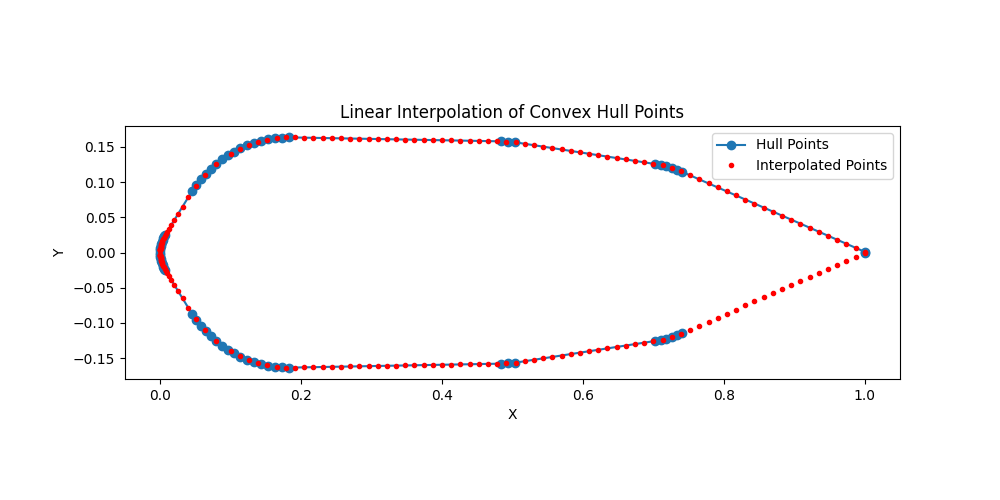
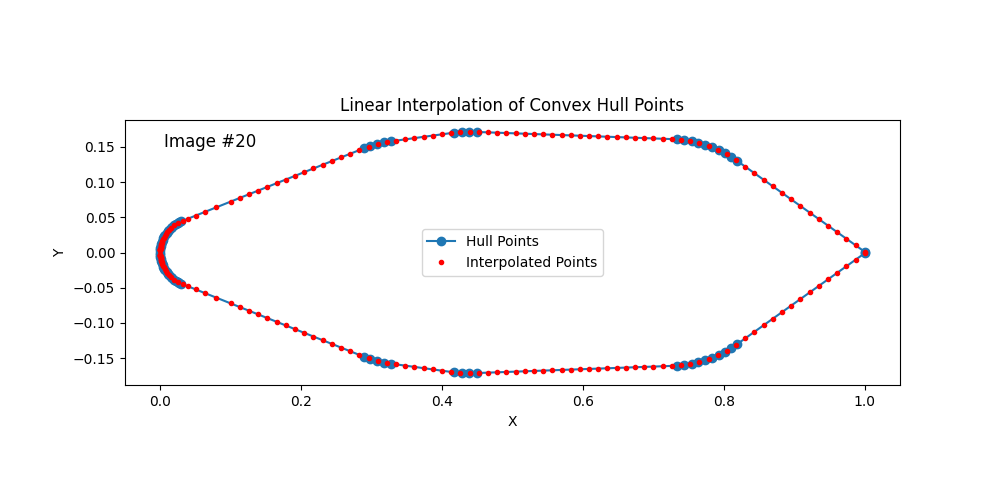
.

diff --git a/AirfoilEnv.py b/AirfoilEnv.py
@@ -3,6 +3,13 @@ from xfoil import XFoil
 from xfoil.model import Airfoil
 from scipy.spatial import ConvexHull
 import matplotlib.pyplot as plt
+from scipy.interpolate import CubicSpline
+import io
+from matplotlib.backends.backend_agg import FigureCanvasAgg as FigureCanvas
+from matplotlib.figure import Figure
+from PIL import Image
+from torchvision import transforms
+import torch
 
 class CustomAirfoilEnv:
     def __init__(self):
@@ -10,19 +17,19 @@ class CustomAirfoilEnv:
         self.xfoil.Re = 1e6
         self.xfoil.max_iter = 100  # 최대 반복 횟수
         self.circles = [((0, 0), 0.05), ((1, 0), 0.002)]
-        self.state = self.get_airfoil_points(self.circles)  # state는 점을 제공 shape=(N, 2)
-        self.xfoil.airfoil = Airfoil(self.state[:, 0], self.state[:, 1])
+        self.points, self.state = self.get_airfoil(self.circles)  # state는 점을 제공 shape=(N, 2)
+        self.xfoil.airfoil = Airfoil(self.points[:, 0], self.points[:, 1])
 
     def reset(self):
         self.circles = [((0, 0), 0.05), ((1, 0), 0.001)]
-        self.state = self.get_airfoil_points(self.circles)
-        self.xfoil.airfoil = Airfoil(self.state[:, 0], self.state[:, 1])
+        self.points, self.state = self.get_airfoil(self.circles)
+        self.xfoil.airfoil = Airfoil(self.points[:, 0], self.points[:, 1])
         return self.get_state()
 
-    def step(self, action):
+    def step(self, action, t=None):
         self.circles.append(((action[0], 0), action[1]))  # add circle
-        new_airfoil_points = self.get_airfoil_points(self.circles)
-        self.xfoil.airfoil = Airfoil(new_airfoil_points[:, 0], new_airfoil_points[:, 1])
+        points, state = self.get_airfoil(self.circles, t=t)
+        self.xfoil.airfoil = Airfoil(points[:, 0], points[:, 1])
         cl, cd, cm, cp = self.xfoil.a(5)    # angle of attack is 5 degrees
         """
         Cl : 양력 계누는 음수일 수 있다.
@@ -35,7 +42,7 @@ class CustomAirfoilEnv:
         if reward == 0 or np.isnan(reward):
             reward = -1
 
-        next_state = new_airfoil_points
+        next_state = state
         self.state = next_state
 
         return next_state, reward
@@ -67,7 +74,7 @@ class CustomAirfoilEnv:
         return all_points
 
 
-    def get_airfoil_points(self, circles, N=100, plot=False):
+    def get_airfoil(self, circles, N=100, plot=False, t=None):
         """
         Generate airfoil points using linear interpolation of convex hull points.
         """
@@ -77,49 +84,53 @@ class CustomAirfoilEnv:
         hull_points = all_points[hull.vertices]
         interpolated_points = self.interpolate_linear_functions(hull_points, N=N)
 
-        if plot:
-            plt.figure(figsize=(10, 5))
-            # xlim과 ylim을 같게 설정하여 비율을 유지합니다.
-            plt.gca().set_aspect("equal")
-            plt.plot(
-                np.array(hull_points[:, 0]),
-                np.array(hull_points[:, 1]),
-                "o-",
-                label="Hull Points",
-            )
-            plt.plot(
-                np.array(interpolated_points[0]),
-                np.array(interpolated_points[1]),
-                ".r",
-                label="Interpolated Points",
-            )
-            plt.legend()
-            plt.xlabel("X")
-            plt.ylabel("Y")
-            plt.title("Linear Interpolation of Convex Hull Points")
-            plt.show()
-        else:
-            plt.figure(figsize=(10, 5))
-            # xlim과 ylim을 같게 설정하여 비율을 유지합니다.
-            plt.gca().set_aspect("equal")
-            plt.plot(
-                np.array(hull_points[:, 0]),
-                np.array(hull_points[:, 1]),
-                "o-",
-                label="Hull Points",
-            )
-            plt.plot(
-                np.array(interpolated_points[0]),
-                np.array(interpolated_points[1]),
-                ".r",
-                label="Interpolated Points",
-            )
-            plt.legend()
-            plt.xlabel("X")
-            plt.ylabel("Y")
-            plt.title("Linear Interpolation of Convex Hull Points")
-            plt.savefig('airfoil.png')
-        return interpolated_points.T
+        plt.figure(figsize=(10, 5))
+        # xlim과 ylim을 같게 설정하여 비율을 유지합니다.
+        plt.gca().set_aspect("equal")
+        plt.plot(
+            np.array(hull_points[:, 0]),
+            np.array(hull_points[:, 1]),
+            "o-",
+            label="Hull Points",
+        )
+        plt.plot(
+            np.array(interpolated_points[0]),
+            np.array(interpolated_points[1]),
+            ".r",
+            label="Interpolated Points",
+        )
+        if t is not None:  # t가 주어진 경우, 이미지에 텍스트 추가
+            plt.text(0.05, 0.95, f"Image #{t + 1}", transform=plt.gca().transAxes, fontsize=12, verticalalignment='top')
+        plt.legend()
+        plt.xlabel("X")
+        plt.ylabel("Y")
+        plt.title("Linear Interpolation of Convex Hull Points")
+        plt.savefig('airfoil.png')
+
+        cs_upper = CubicSpline(np.concatenate(([0],np.flip(interpolated_points[0,:100]))), np.concatenate(([0],np.flip(interpolated_points[1,:100]))))
+        cs_lower = CubicSpline(np.concatenate(([0],interpolated_points[0,100:])), np.concatenate(([0],interpolated_points[1,100:])))
+        x_fine_upper = np.linspace(0, 1, 10000)
+        x_fine_lower = np.linspace(0, 1, 10000)
+
+        # 그래프 그리기
+        fig = Figure(figsize=(10, 5))
+        canvas = FigureCanvas(fig)
+        ax = fig.add_subplot(111)
+        ax.plot(x_fine_upper, cs_upper(x_fine_upper), color='black')
+        ax.plot(x_fine_lower, cs_lower(x_fine_lower), color='black')
+        ax.axis('off')
+        ax.axis('equal')
+
+        # 메모리에 이미지 저장
+        buf = io.BytesIO()
+        fig.savefig(buf, format='png', dpi=50)
+        buf.seek(0)
+
+        image = Image.open(buf).convert('L')
+        tensor = 1 - transforms.ToTensor()(image)
+        buf.close()
+
+        return interpolated_points.T, tensor
 
     def interpolate_linear_functions(self, hull_points, N=100):
         x_min = np.min(hull_points[:, 0])

diff --git a/train.py b/train.py
@@ -119,12 +119,12 @@ class Train:
             tensor_manager = TensorManager(
                 env_num=1,
                 horizon=self.horizon,
-                state_shape=(2, 200),
+                state_shape=(250, 500),
                 action_dim=2,
                 device=self.device,
             )
             states = self.env.reset()
-            states = torch.tensor(states, dtype=torch.float32).unsqueeze(0).permute(0,2,1).to(self.device)
+            states = torch.tensor(states, dtype=torch.float32).to(self.device)
             # 1 episode (data collection)
             for t in range(self.horizon):
                 # Actor
@@ -135,7 +135,7 @@ class Train:
 
                 # Critic
                 value = self.agent.get_value(states, use_grad=False)
-                next_states, rewards = self.env.step(scaled_actions)
+                next_states, rewards = self.env.step(scaled_actions, t=t)
 
                 tensor_manager.update_tensors(
                     states,
@@ -147,7 +147,7 @@ class Train:
                 )
                 
 
-                states = torch.tensor(next_states, dtype=torch.float32).unsqueeze(0).permute(0,2,1).to(self.device)
+                states = torch.tensor(next_states, dtype=torch.float32).to(self.device)
             
             next_value = self.agent.get_value(states, use_grad=False)
             tensor_manager.values_tensor[:, -1] = next_value.squeeze()
@@ -156,7 +156,7 @@ class Train:
             tensor_manager.advantages_tensor = advs
             # Train the agent
             actor_loss, critic_loss = self.train(tensor_manager)
-            eval_rewards = torch.sum(tensor_manager.rewards_tensor)
+            eval_rewards = tensor_manager.rewards_tensor[0, -1]
 
             self.print_logs(iteration, actor_loss, critic_loss, eval_rewards, t)
 

diff --git a/model/model.py b/model/model.py
@@ -5,20 +5,19 @@ import torch.nn.functional as F
 class AirfoilCNN(nn.Module):
     def __init__(self):
         super(AirfoilCNN, self).__init__()
-        self.conv1 = nn.Conv1d(in_channels=2, out_channels=32, kernel_size=5, padding=1)
-        self.conv2 = nn.Conv1d(
-            in_channels=32, out_channels=64, kernel_size=5, padding=1
-        )
-        self.pool = nn.MaxPool1d(kernel_size=2, stride=2)
-        self.fc1 = nn.Linear(64 * 48, 64)  # 입력 길이가 200으로 가정
+        self.conv1 = nn.Conv2d(1, 16, kernel_size=5, stride=2, padding=2)
+        self.conv2 = nn.Conv2d(16, 32, kernel_size=5, stride=2, padding=2)
+        self.conv3 = nn.Conv2d(32, 64, kernel_size=3, stride=2, padding=1)
+        self.fc = nn.Linear(64 * 32 * 63, 64)
 
     def forward(self, x):
-        x = self.pool(F.relu(self.conv1(x)))  # 첫 번째 컨볼루션 및 풀링
-        x = self.pool(F.relu(self.conv2(x)))  # 두 번째 컨볼루션 및 풀링
-        x = x.view(-1, 64 * 48)  # Flatten
-        x = F.relu(self.fc1(x))
+        x = x.unsqueeze(1)
+        x = F.relu(self.conv1(x))
+        x = F.relu(self.conv2(x))
+        x = F.relu(self.conv3(x))
+        x = x.view(x.size(0), -1)
+        x = F.relu(self.fc(x))
         return x
-
 
 class Actor(nn.Module):
     def __init__(self, n_action):
